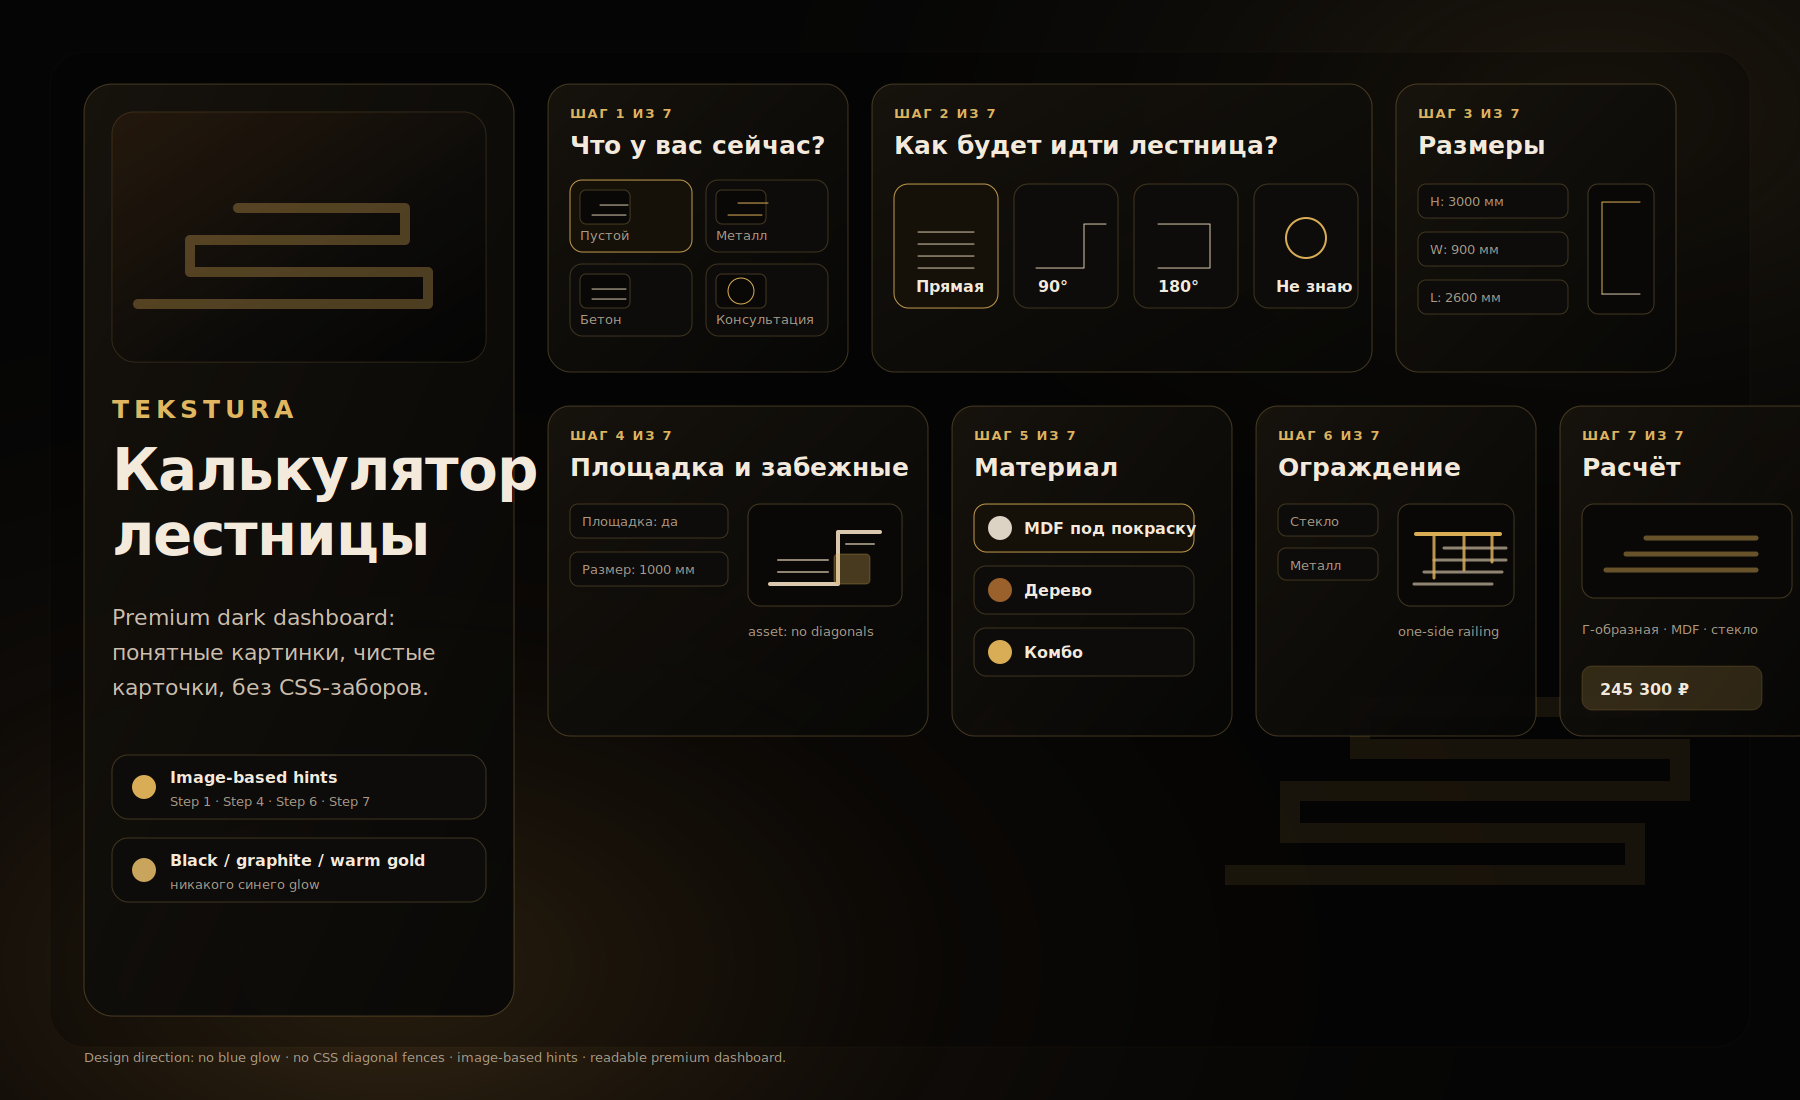
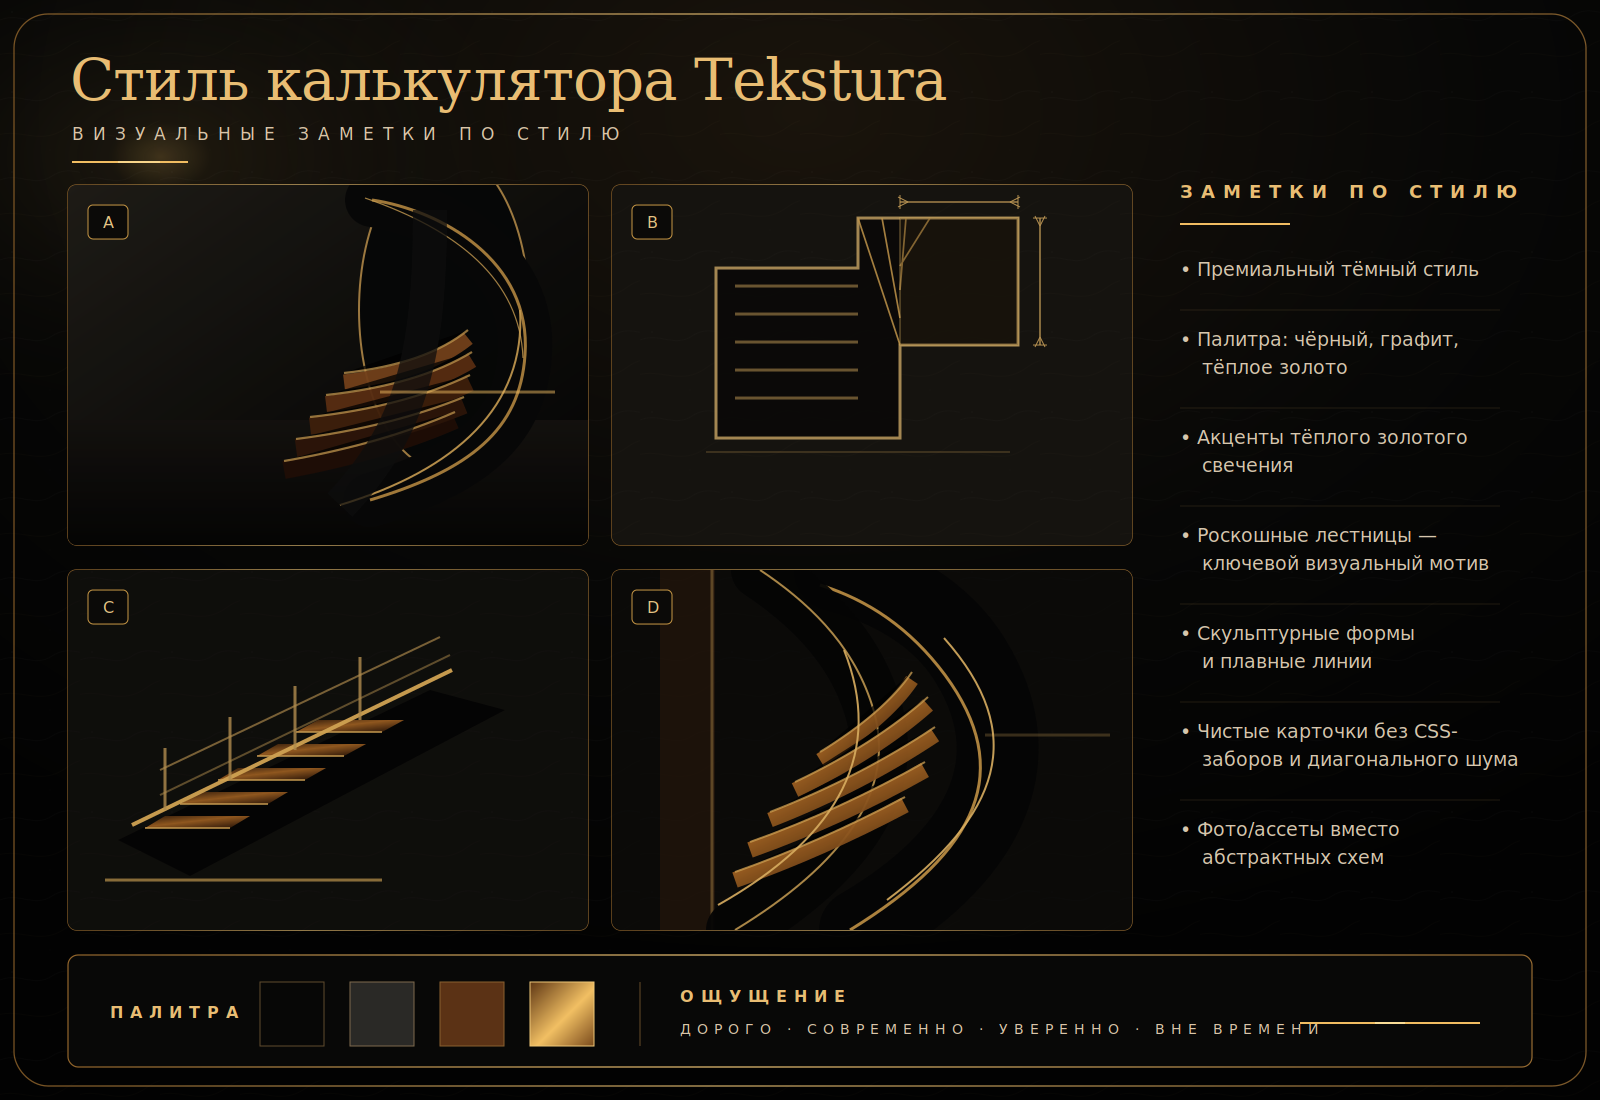
Restyle calculator preview direction moodboard

diff --git a/docs/calculator-preview-design-direction.html b/docs/calculator-preview-design-direction.html
@@ -3,14 +3,16 @@
 <head>
   <meta charset="utf-8">
   <meta name="viewport" content="width=device-width, initial-scale=1">
-  <title>Tekstura calculator preview — design direction</title>
+  <title>Tekstura calculator style board</title>
   <style>
     :root { color-scheme: dark; }
     * { box-sizing: border-box; }
     body {
       margin: 0;
       min-height: 100vh;
-      background: #050505;
+      background:
+        radial-gradient(circle at 15% 0%, rgba(201, 164, 92, 0.14), transparent 28%),
+        linear-gradient(135deg, #050505, #0b0907 55%, #030303);
       color: #f4eadc;
       font-family: Arial, sans-serif;
     }
@@ -18,15 +20,28 @@
       display: grid;
       gap: 18px;
       margin: 0 auto;
-      max-width: 1840px;
+      max-width: 1648px;
       padding: 24px;
     }
-    h1 { font-size: clamp(28px, 4vw, 54px); margin: 0; }
-    p { color: #c9bba8; font-size: 18px; line-height: 1.55; margin: 0; max-width: 960px; }
+    h1 {
+      color: #e9bd73;
+      font-family: Georgia, 'Times New Roman', serif;
+      font-size: clamp(32px, 4.6vw, 68px);
+      font-weight: 500;
+      line-height: 1;
+      margin: 0;
+    }
+    p {
+      color: #c9bba8;
+      font-size: 18px;
+      line-height: 1.55;
+      margin: 0;
+      max-width: 1040px;
+    }
     img {
-      border: 1px solid rgba(201, 164, 92, 0.28);
-      border-radius: 20px;
-      box-shadow: 0 24px 70px rgba(0, 0, 0, 0.45);
+      border: 1px solid rgba(201, 164, 92, 0.36);
+      border-radius: 18px;
+      box-shadow: 0 28px 80px rgba(0, 0, 0, 0.55);
       display: block;
       height: auto;
       width: 100%;
@@ -36,10 +51,10 @@
 </head>
 <body>
   <main>
-    <h1>Tekstura calculator preview — design direction</h1>
-    <p>Это картинка-направление для PR #157: premium dark dashboard, image-based hints для Step 1 / Step 4 / Step 6 / Step 7, без синих glow, CSS-заборов, repeating-linear-gradient и случайных диагональных схем.</p>
-    <img src="./assets/calculator-preview/tekstura-dashboard-design-direction.png" alt="Premium dark dashboard design direction for Tekstura calculator preview">
-    <p>Открывать можно как обычную страницу: <code>docs/calculator-preview-design-direction.html</code>.</p>
+    <h1>Стиль калькулятора Tekstura</h1>
+    <p>Обновлённая картинка-направление в стиле приложенного референса: тёмный интерьерный moodboard, крупные лестничные фото/визуалы, тонкие золотые рамки, заметки справа и палитра снизу. Это ориентир для PR #157: премиально, чисто, без CSS-заборов, синего glow и случайных диагональных схем.</p>
+    <img src="./assets/calculator-preview/tekstura-dashboard-design-direction.png" alt="Стиль калькулятора Tekstura: premium dark moodboard with warm gold staircase visuals">
+    <p>Открывать можно как обычную страницу: <code>docs/calculator-preview-design-direction.html</code>. Сам PNG: <code>docs/assets/calculator-preview/tekstura-dashboard-design-direction.png</code>.</p>
   </main>
 </body>
 </html>
